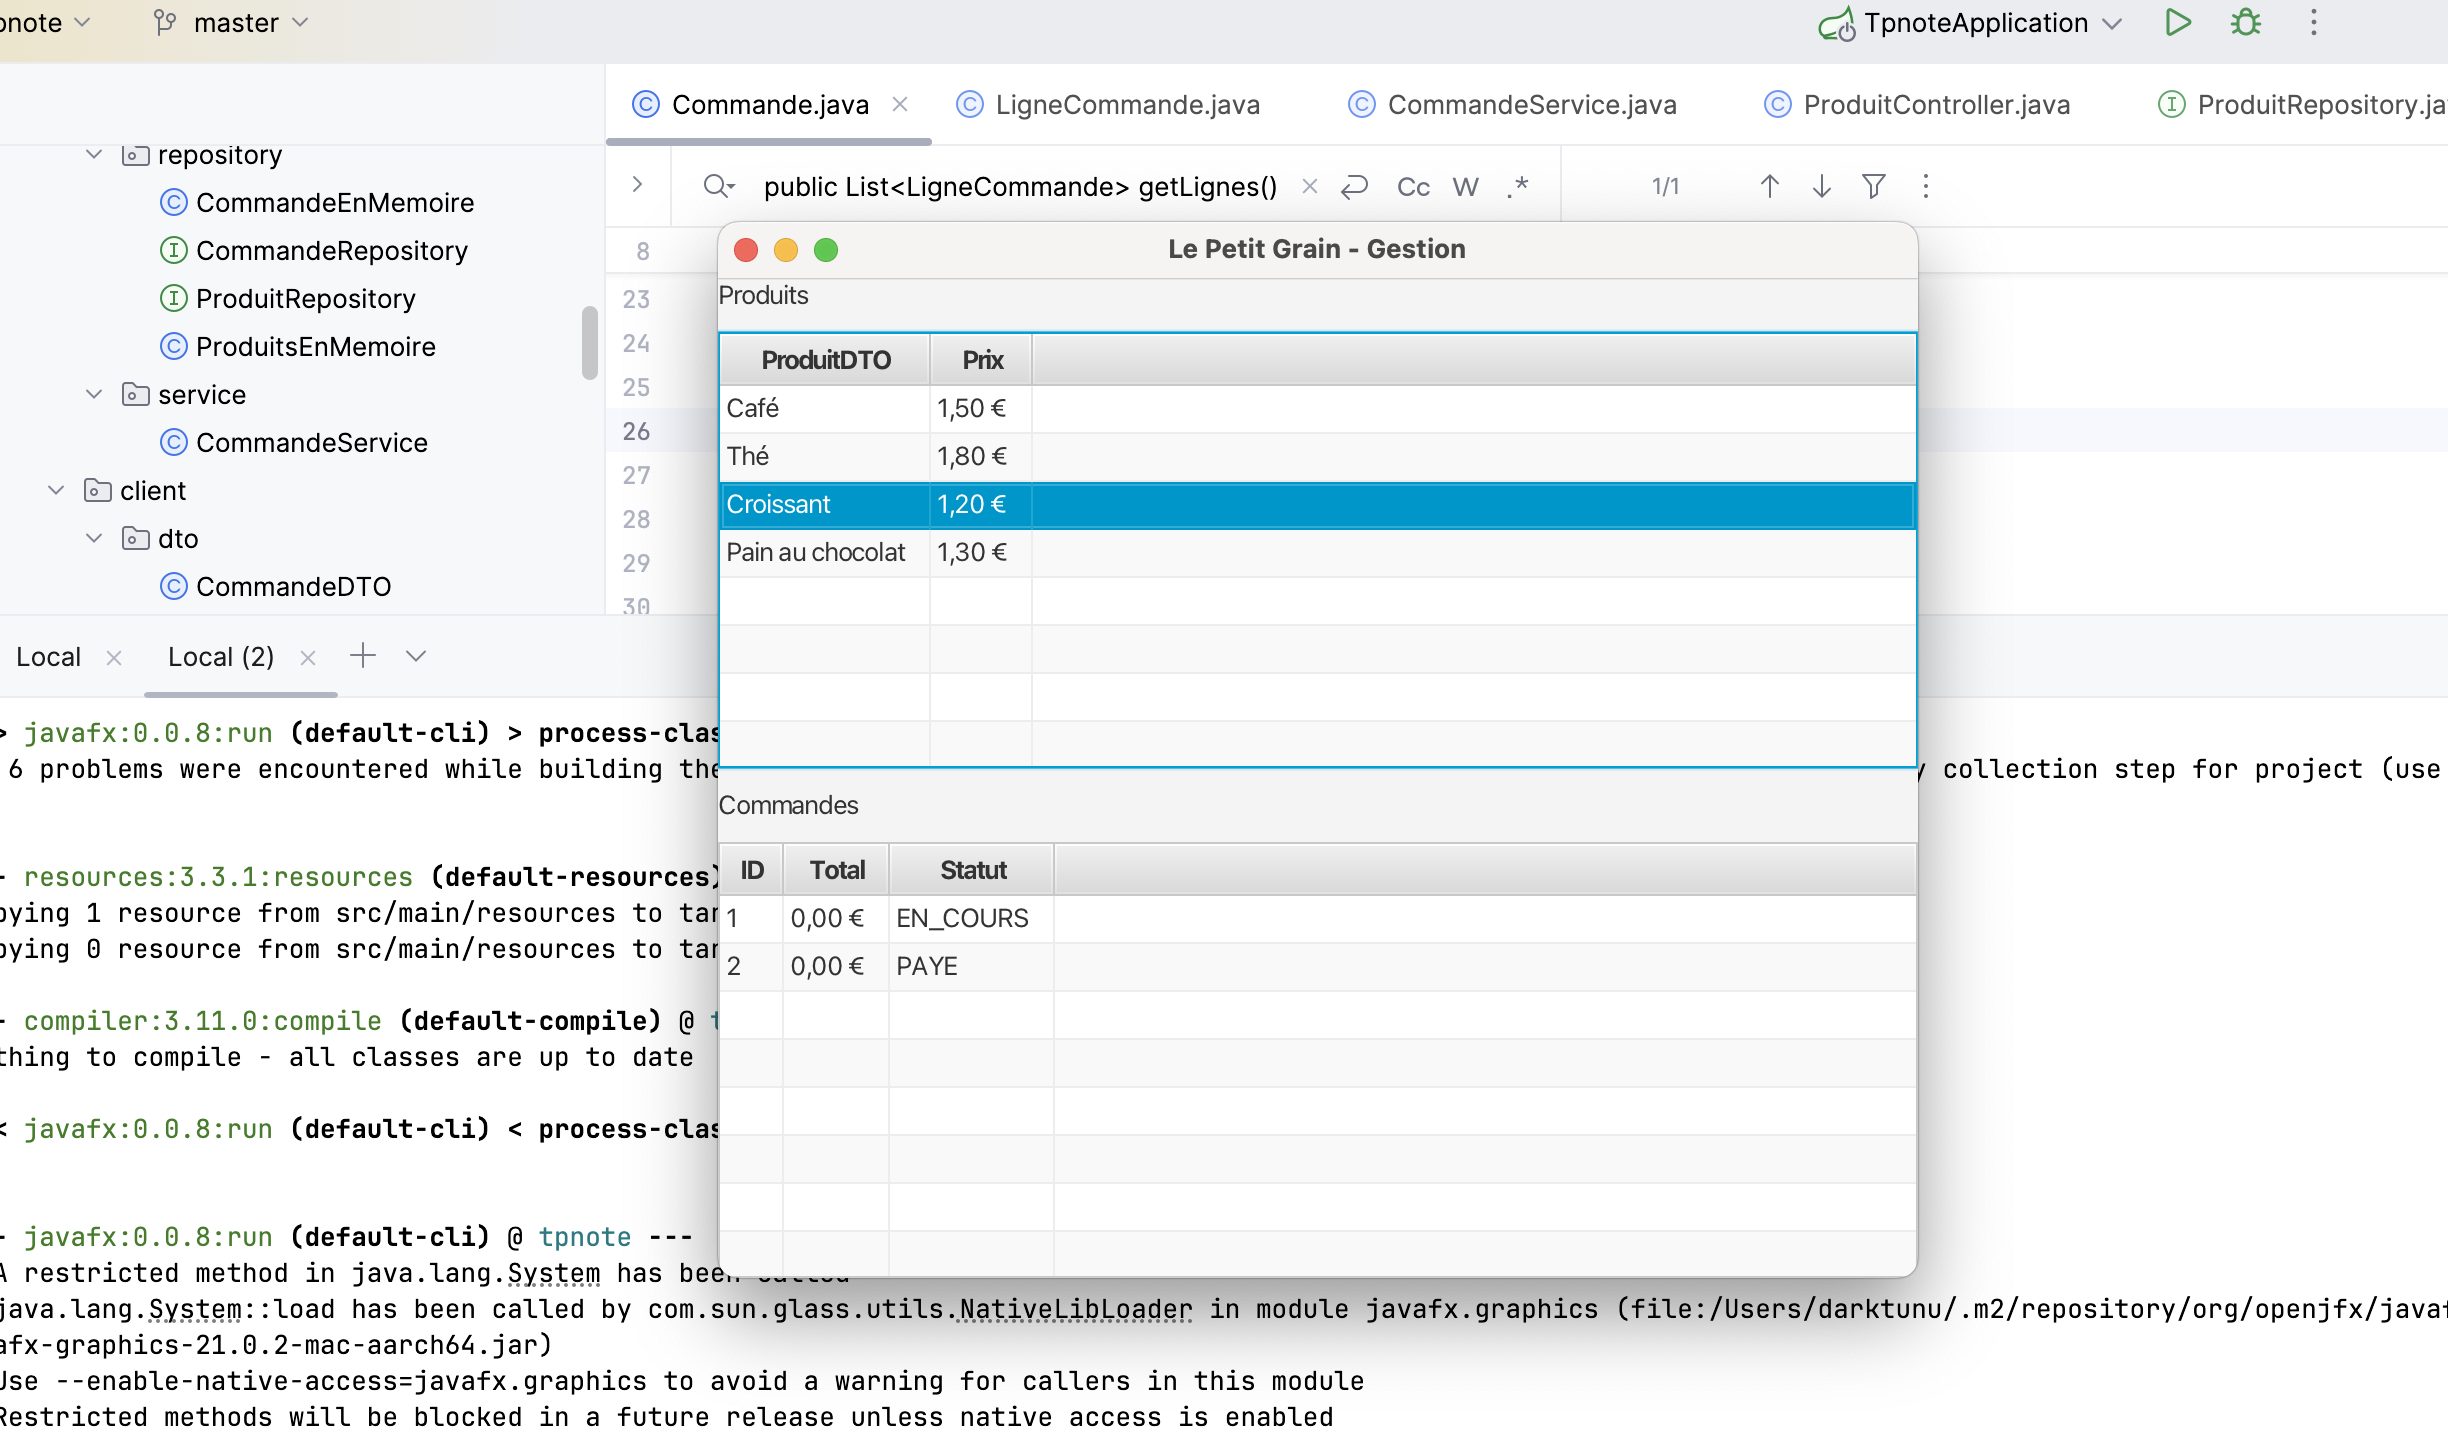
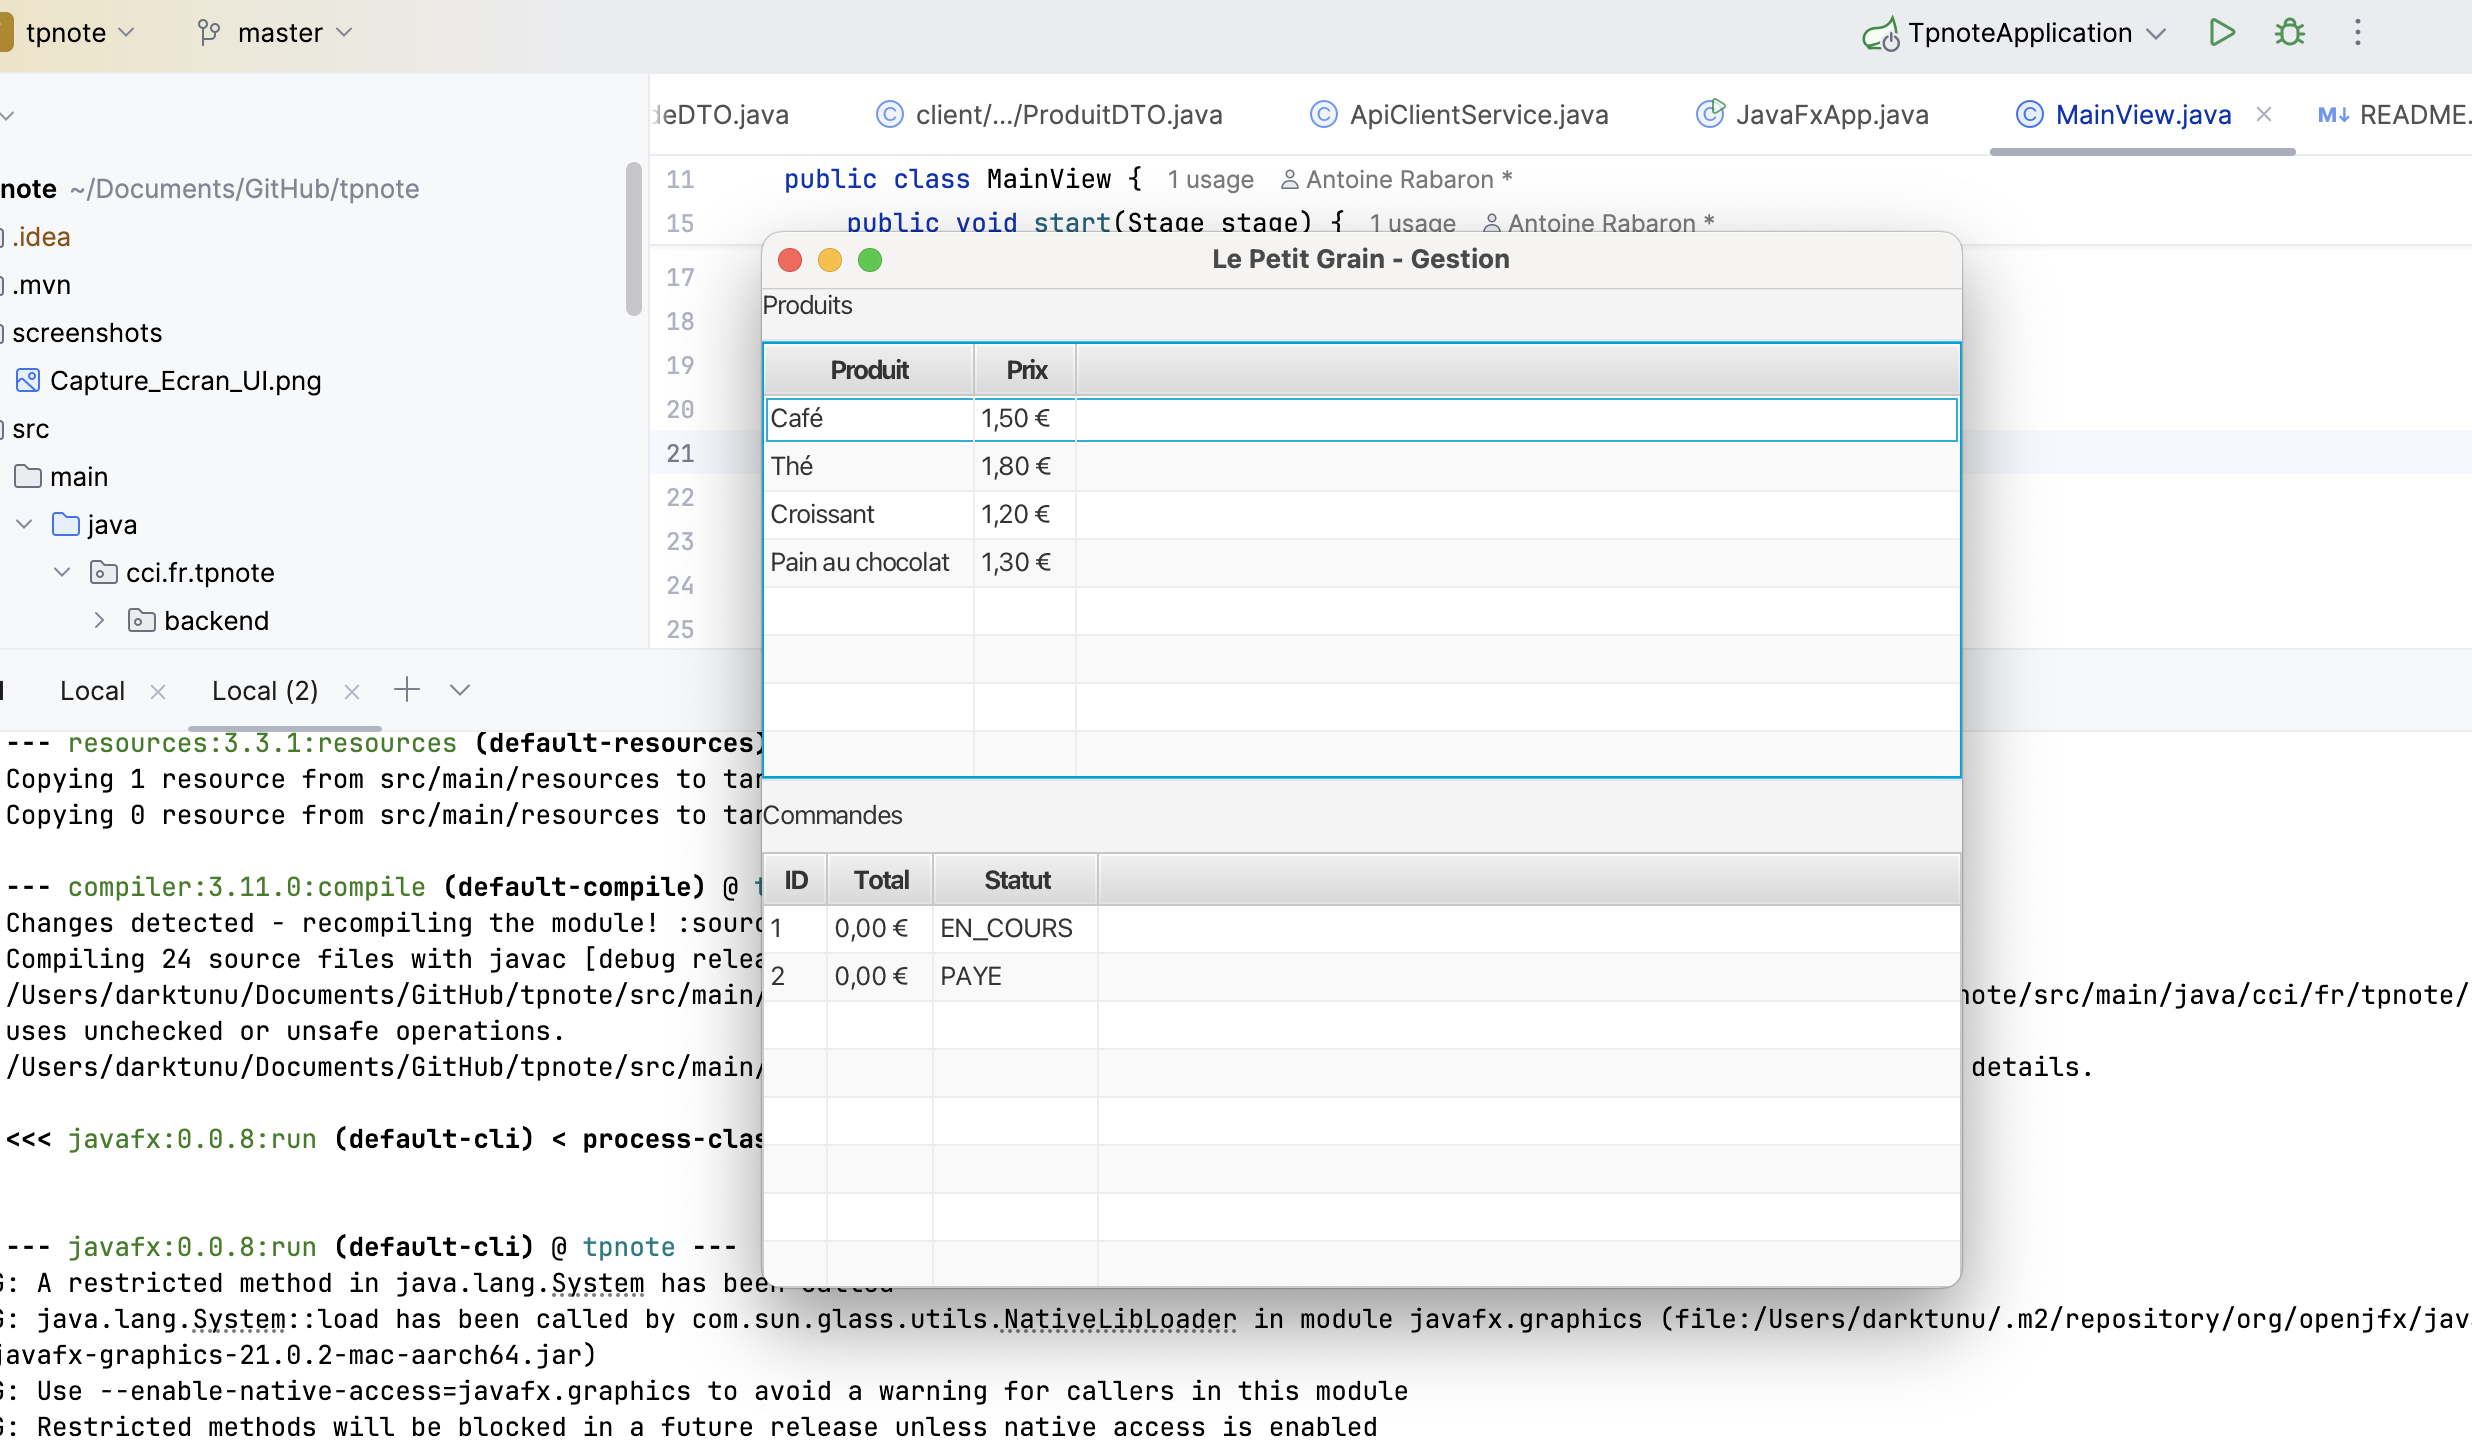
update nom table

diff --git a/src/main/java/cci/fr/tpnote/client/MainView.java b/src/main/java/cci/fr/tpnote/client/MainView.java
@@ -18,7 +18,7 @@ public class MainView {
         TableView<ProduitDTO> tableProduitDTOs = new TableView<>();
 
         TableColumn<ProduitDTO, String> colNom =
-                new TableColumn<>("ProduitDTO");
+                new TableColumn<>("Produit");
         colNom.setCellValueFactory(p ->
                 new javafx.beans.property.SimpleStringProperty(
                         p.getValue().getNom()
